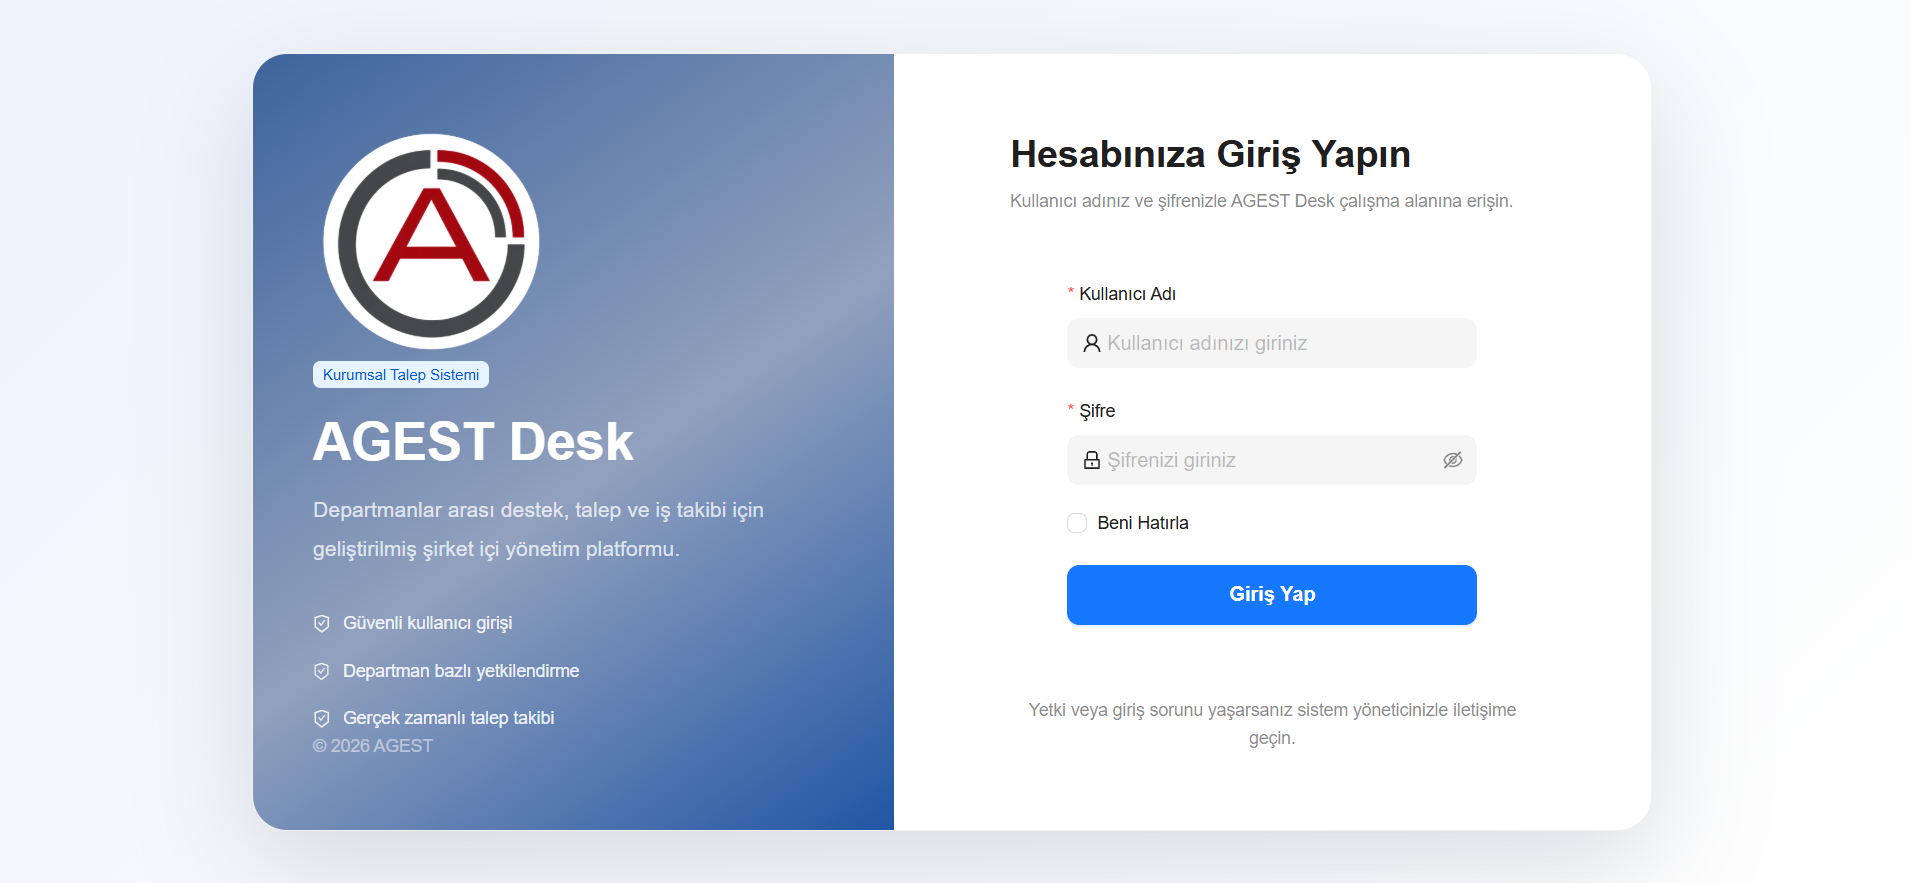
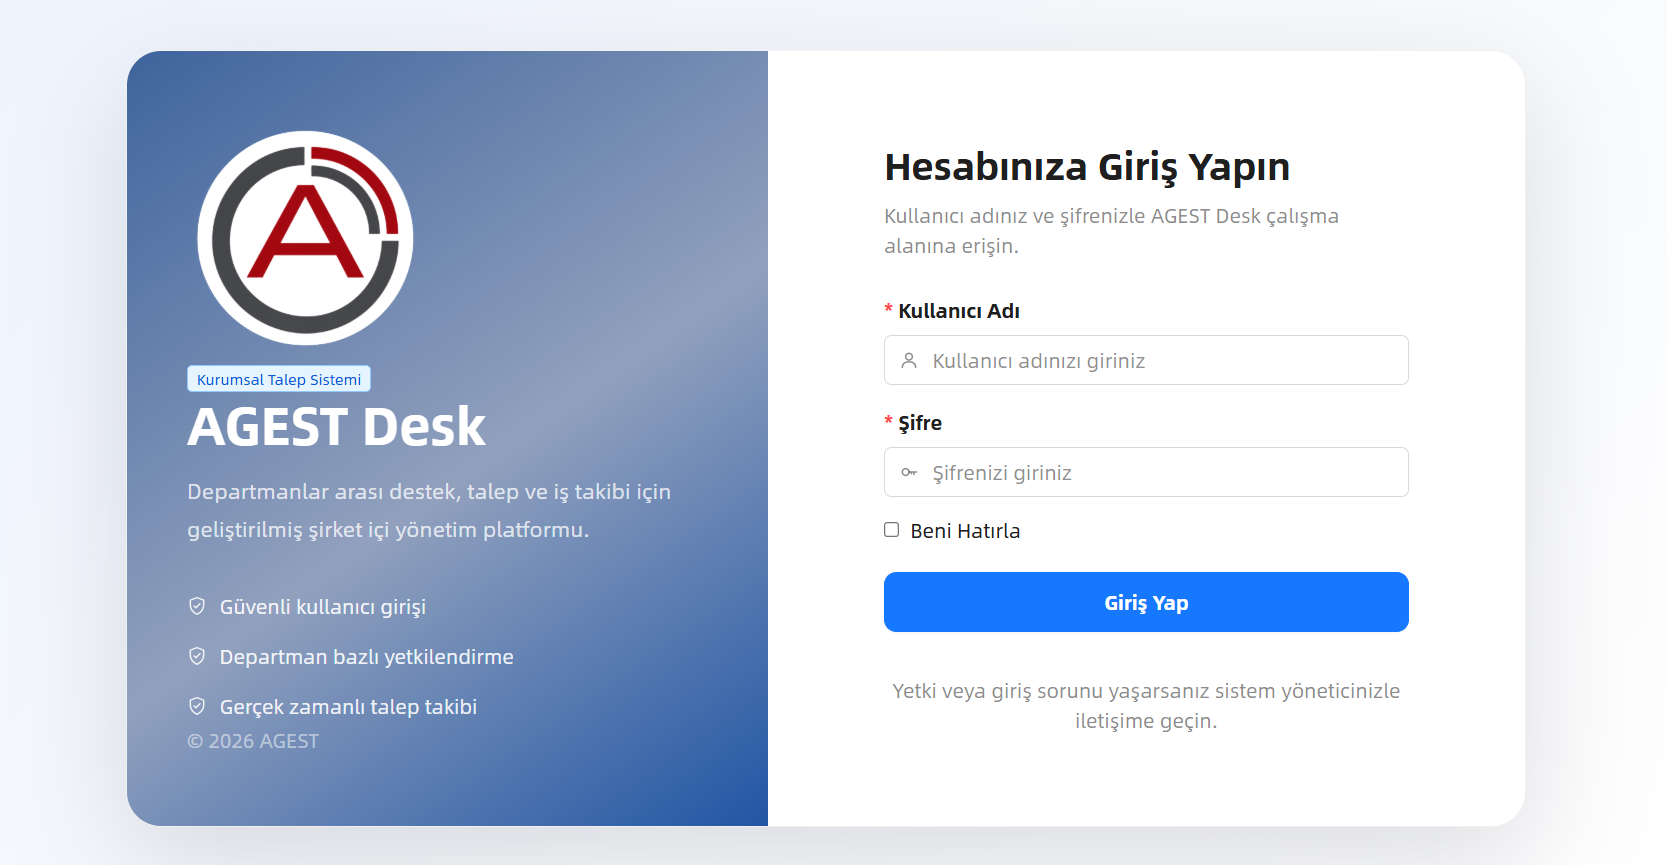
Update README and screenshots

diff --git a/README.md b/README.md
@@ -16,10 +16,13 @@
 
 # AGEST Desk
 
-Şirket içi departmanlar arasında talep oluşturma, takip etme ve yönetme amacıyla geliştirilen Help Desk (Ticket) uygulaması.
+AGEST Desk, şirket içerisindeki departmanlar arasında teknik ve operasyonel taleplerin oluşturulması, takip edilmesi ve yönetilmesi amacıyla geliştirilmiş kurumsal bir **Help Desk (Ticket Management)** uygulamasıdır.
+
+Sistem; rol bazlı yetkilendirme, departman yönetimi, talep yaşam döngüsü, öncelik sistemi ve e-posta bildirimleri gibi kurumsal ihtiyaçları karşılayacak şekilde tasarlanmıştır.
 
 ---
-## 📸 Ekran Görüntüleri
+
+# 📸 Ekran Görüntüleri
 
 ### 🔐 Giriş Ekranı
 
@@ -31,7 +34,7 @@ Kullanıcı adı ve şifre ile güvenli giriş ekranı.
 
 ### 📊 Dashboard
 
-Kullanıcıya ait genel istatistikleri ve sistem özetini gösteren ana ekran.
+Kullanıcının sistem özetini, istatistiklerini ve son işlemlerini görüntüleyebildiği ana panel.
 
 ![Dashboard](screenshots/panel.png)
 
@@ -43,65 +46,74 @@ Yeni talep oluşturma, gelen ve gönderilen taleplerin yönetildiği ekran.
 
 ![Talep Yönetimi](screenshots/talep.png)
 
-## Proje Hakkında
-
-AGEST Desk; şirket içerisindeki departmanların birbirlerine destek talepleri gönderebildiği modern bir Help Desk sistemidir.
-
-Kullanıcılar;
-
-- Yeni talep oluşturabilir.
-- Gelen talepleri görüntüleyebilir.
-- Gönderdiği talepleri takip edebilir.
-- Talepleri İşlemde veya Tamamlandı durumuna getirebilir.
-- Yanlış yapılan işlemleri geri alabilir.
-- Otomatik e-posta bildirimleri alabilir.
-
 ---
 
-## Özellikler
+# 🚀 Özellikler
 
 - JWT Authentication
 - Güvenli kullanıcı girişi
 - Rol bazlı yetkilendirme
 - Departman bazlı talep yönetimi
-- Öncelik sistemi
-- Ticket numarası oluşturma
-- Bekliyor / İşlemde / Tamamlandı durumları
-- Durum geri alma özelliği
-- Gelen Talepler ekranı
-- Gönderilen Talepler ekranı
-- Dashboard
-- Otomatik e-posta bildirimi
-- Mobil uyumlu arayüz
+- Öncelik sistemi (Düşük / Orta / Yüksek / Kritik)
+- Otomatik Ticket numarası oluşturma
+- Talep durum yönetimi
+  - Bekliyor
+  - İşlemde
+  - Tamamlandı
+- Durum geri alma işlemleri
+- Dashboard ve istatistik ekranları
+- Kullanıcı Yönetimi
+- Departman Yönetimi
+- Gelen Talepler
+- Gönderilen Talepler
+- Dosya ekleme desteği
+- Otomatik e-posta bildirimleri
+- Responsive arayüz
 
 ---
 
-## Kullanılan Teknolojiler
+# 🏗 Mimari
 
-### Frontend
+Proje geliştirme sürecinde tamamen yeniden yapılandırılmıştır.
+
+Yapılan başlıca iyileştirmeler:
+
+- Ant Design ve Ant Design Pro bağımlılıkları tamamen kaldırıldı.
+- Özel React + TypeScript tabanlı UI bileşenleri geliştirildi.
+- Özel Layout sistemi oluşturuldu.
+- Dashboard, tablolar, formlar ve modal yapıları yeniden geliştirildi.
+- Tek açık tema mimarisi oluşturuldu.
+- Kod tabanı sadeleştirildi ve gereksiz template dosyaları temizlendi.
+
+---
+
+# 🛠 Kullanılan Teknolojiler
+
+## Frontend
 
 - React
 - TypeScript
-- Ant Design Pro
-- Ant Design
 - Umi Max
+- Custom UI Library
+- Custom Layout
+- CSS
 
-### Backend
+## Backend
 
 - Node.js
 - Express.js
-- JWT
+- JWT Authentication
 - Nodemailer
 
-### Database
+## Database
 
 - MySQL
 
 ---
 
-## Proje Yapısı
+# 📁 Proje Yapısı
 
-```
+```text
 help-desk
 │
 ├── backend
@@ -122,9 +134,9 @@ help-desk
 
 ---
 
-## Kurulum
+# ⚙ Kurulum
 
-### 1. Repository'i indir
+## 1. Projeyi Klonlayın
 
 ```bash
 git clone https://github.com/elif-ks/agest-desk.git
@@ -132,17 +144,16 @@ git clone https://github.com/elif-ks/agest-desk.git
 
 ---
 
-### 2. Frontend
+## 2. Frontend
 
 ```bash
 npm install
-
 npm start
 ```
 
 ---
 
-### 3. Backend
+## 3. Backend
 
 ```bash
 cd backend
@@ -154,11 +165,11 @@ node server.js
 
 ---
 
-### 4. Veritabanı
+## 4. Veritabanı
 
-database klasörü içerisindeki
+`database` klasörü içerisindeki
 
-```
+```text
 help_desk.sql
 ```
 
@@ -166,17 +177,11 @@ dosyasını phpMyAdmin üzerinden içe aktarın.
 
 ---
 
-### 5. Ortam Değişkenleri
+## 5. Ortam Değişkenleri
 
-Backend klasörü içerisine
+Backend klasörü içerisine `.env` dosyası oluşturun.
 
-```
-.env
-```
-
-dosyası oluşturun.
-
-Örnek yapı:
+Örnek:
 
 ```env
 PORT=5000
@@ -194,9 +199,9 @@ MAIL_PASSWORD=google_uygulama_parolasi
 
 ---
 
-## Talep Durum Akışı
+# 🔄 Talep Durum Akışı
 
-```
+```text
 Bekliyor
      │
      ▼
@@ -212,22 +217,14 @@ Tamamlandı → İşlemde
 
 ---
 
-## Ekran Görüntüleri
-
-Yakında eklenecektir.
-
----
-
-## Geliştirici
+# 👨💻 Geliştirici
 
 **Elif Karakuş**
 
-GitHub
-
-https://github.com/elif-ks
+GitHub: https://github.com/elif-ks
 
 ---
 
-## Lisans
+# 📄 Lisans
 
-Bu proje eğitim ve staj amacıyla geliştirilmiştir.
+Bu proje eğitim, staj ve portföy amacıyla geliştirilmiştir.
